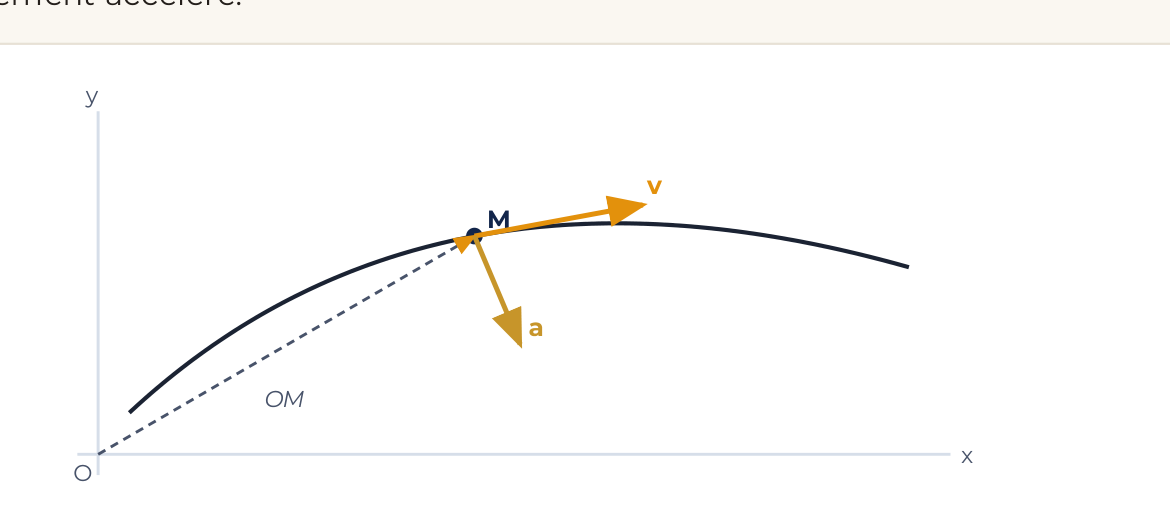
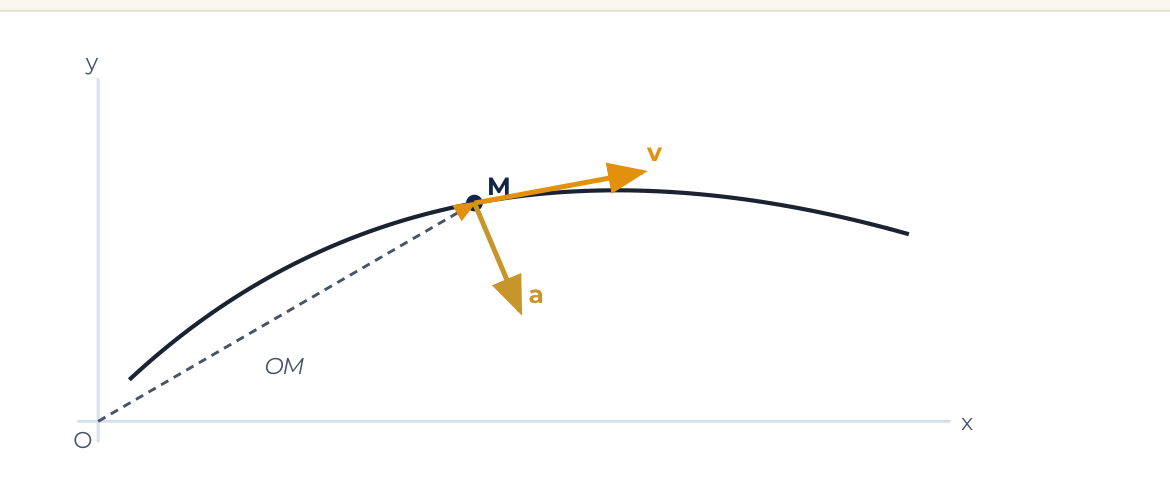
fix: supprimer les §, corriger 3e loi KaTeX, recadrer fig-vecteurs, conventions LaTeX
- Fiche : titres sans § (1 Cinématique, 2 Lois…)
- 3e loi Newton : ≠ → \neq pour compatibilité KaTeX
- fig-vecteurs.png : crop y=566 pour couper le texte résiduel
- Conventions : texte brut → InlineMath pour rendu LaTeX correct

diff --git a/src/components/Resources/ModulePage.tsx b/src/components/Resources/ModulePage.tsx
@@ -788,7 +788,7 @@ function CourseTab() {
         </ul>
         <div className="px-4 py-2 border-t border-amber-700/20">
           <p className="text-[11px] text-white/35 text-center">
-            {"Conventions : repère $(O,\\,\\vec{i},\\,\\vec{j})$, $g = 9{,}81\\,\\text{m\\,s}^{-2}$, frottements négligés sauf mention contraire."}
+            Conventions : repère <InlineMath tex="(O,\vec{i},\vec{j})" />, <InlineMath tex="g=9{,}81\,\text{m\,s}^{-2}" />, frottements négligés sauf mention contraire.
           </p>
         </div>
       </div>
@@ -825,7 +825,7 @@ function CourseTab() {
    ═══════════════════════════════════════════════════════════════════════════ */
 const FICHE_DATA = [
   {
-    title: '§1  Cinématique',
+    title: '1  Cinématique',
     rows: [
       { label: 'Position',     tex: '\\overrightarrow{OM}(t) = x(t)\\,\\vec{i}+y(t)\\,\\vec{j}' },
       { label: 'Vitesse',      tex: '\\vec{v}=\\dfrac{d\\overrightarrow{OM}}{dt}\\quad(\\text{tangente})' },
@@ -834,15 +834,15 @@ const FICHE_DATA = [
     ],
   },
   {
-    title: '§2  Lois de Newton',
+    title: '2  Lois de Newton',
     rows: [
       { label: '1ʳᵉ loi', tex: '\\sum\\vec{F}_{\\text{ext}}=\\vec{0}\\iff\\vec{v}_G=\\overrightarrow{\\text{cte}}' },
       { label: '2ᵉ loi',  tex: '\\sum\\vec{F}_{\\text{ext}}=m\\vec{a}_G' },
-      { label: '3ᵉ loi',  tex: '\\vec{F}_{A/B}=-\\vec{F}_{B/A}\\;(\\text{corps ≠})' },
+      { label: '3ᵉ loi',  tex: '\\vec{F}_{A/B}=-\\vec{F}_{B/A}\\quad(A\\neq B)' },
     ],
   },
   {
-    title: '§4  Projectile (sans frottement)',
+    title: '4  Projectile (sans frottement)',
     rows: [
       { label: 'Horaires',    tex: 'x=v_0\\cos\\alpha\\cdot t\\;,\\;\\;y=v_0\\sin\\alpha\\cdot t-\\tfrac{1}{2}g\\,t^2' },
       { label: 'Trajectoire', tex: 'y=-\\dfrac{g}{2v_0^2\\cos^2\\!\\alpha}\\,x^2+(\\tan\\alpha)\\,x' },
@@ -851,7 +851,7 @@ const FICHE_DATA = [
     ],
   },
   {
-    title: '§5  Particule chargée',
+    title: '5  Particule chargée',
     rows: [
       { label: 'Champ',        tex: 'E=U/d' },
       { label: 'Force',        tex: '\\vec{F}=q\\vec{E}\\;(\\text{opposée à }\\vec{E}\\text{ si }q<0)' },